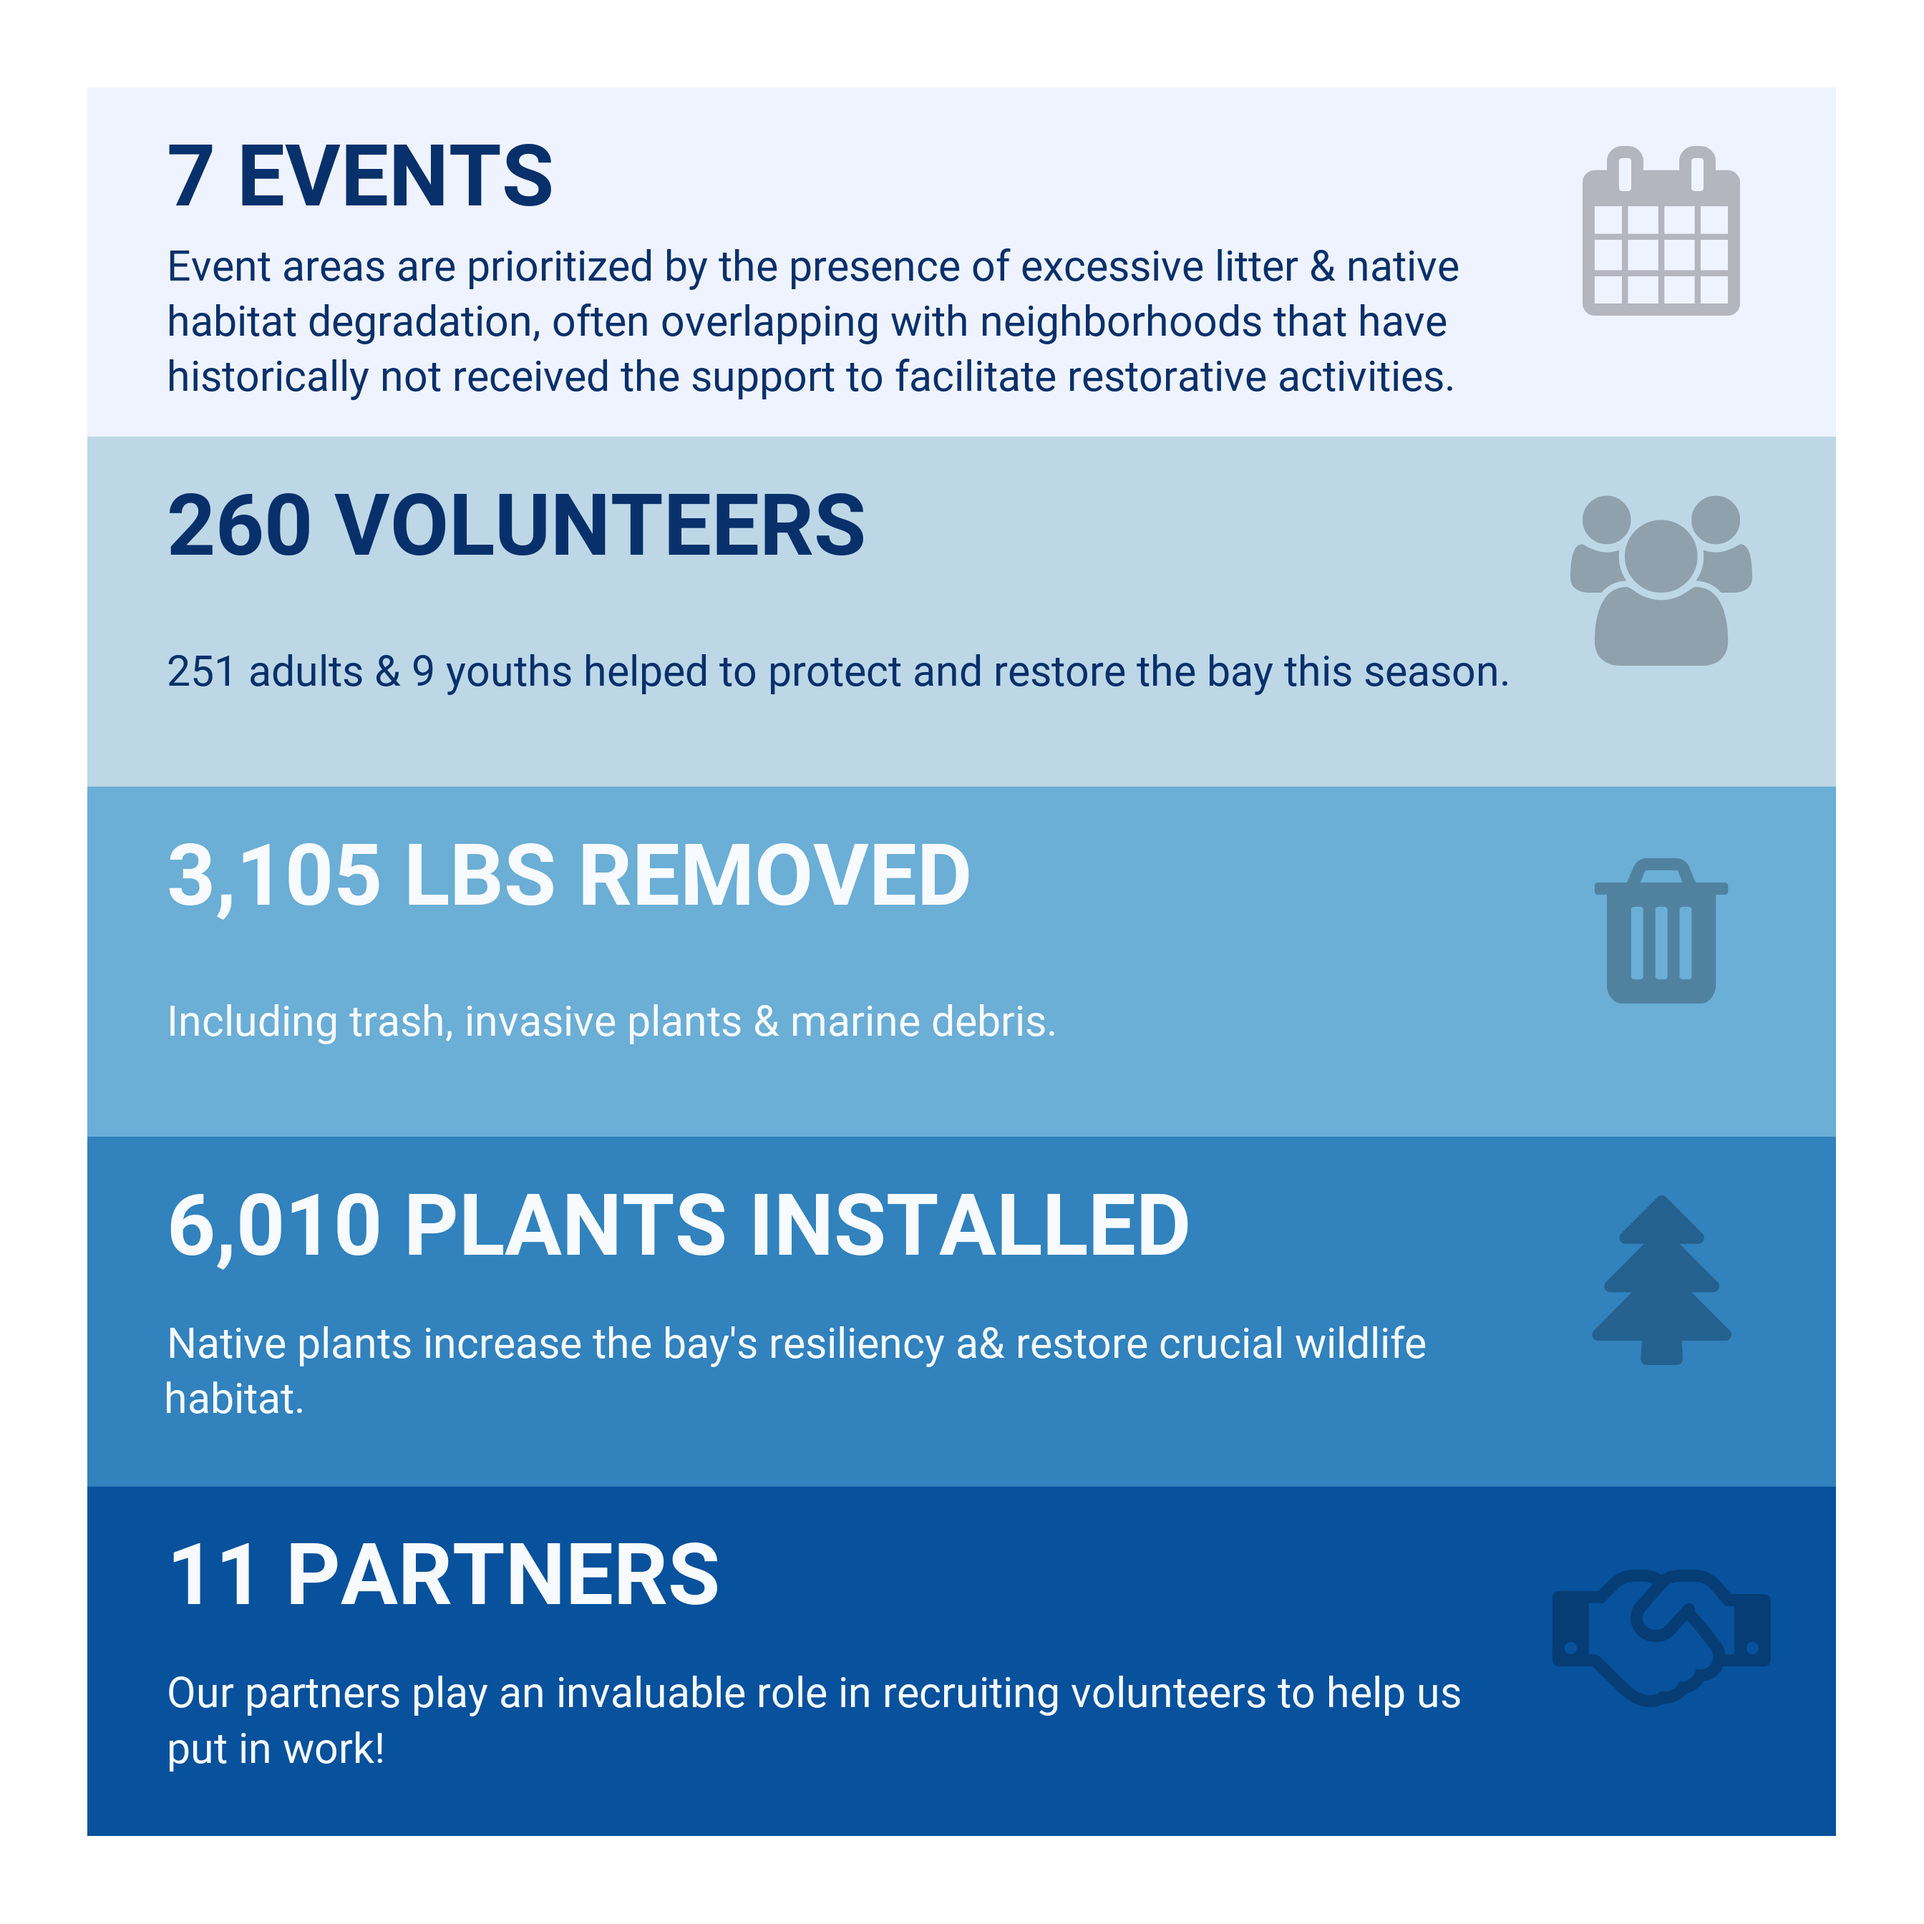
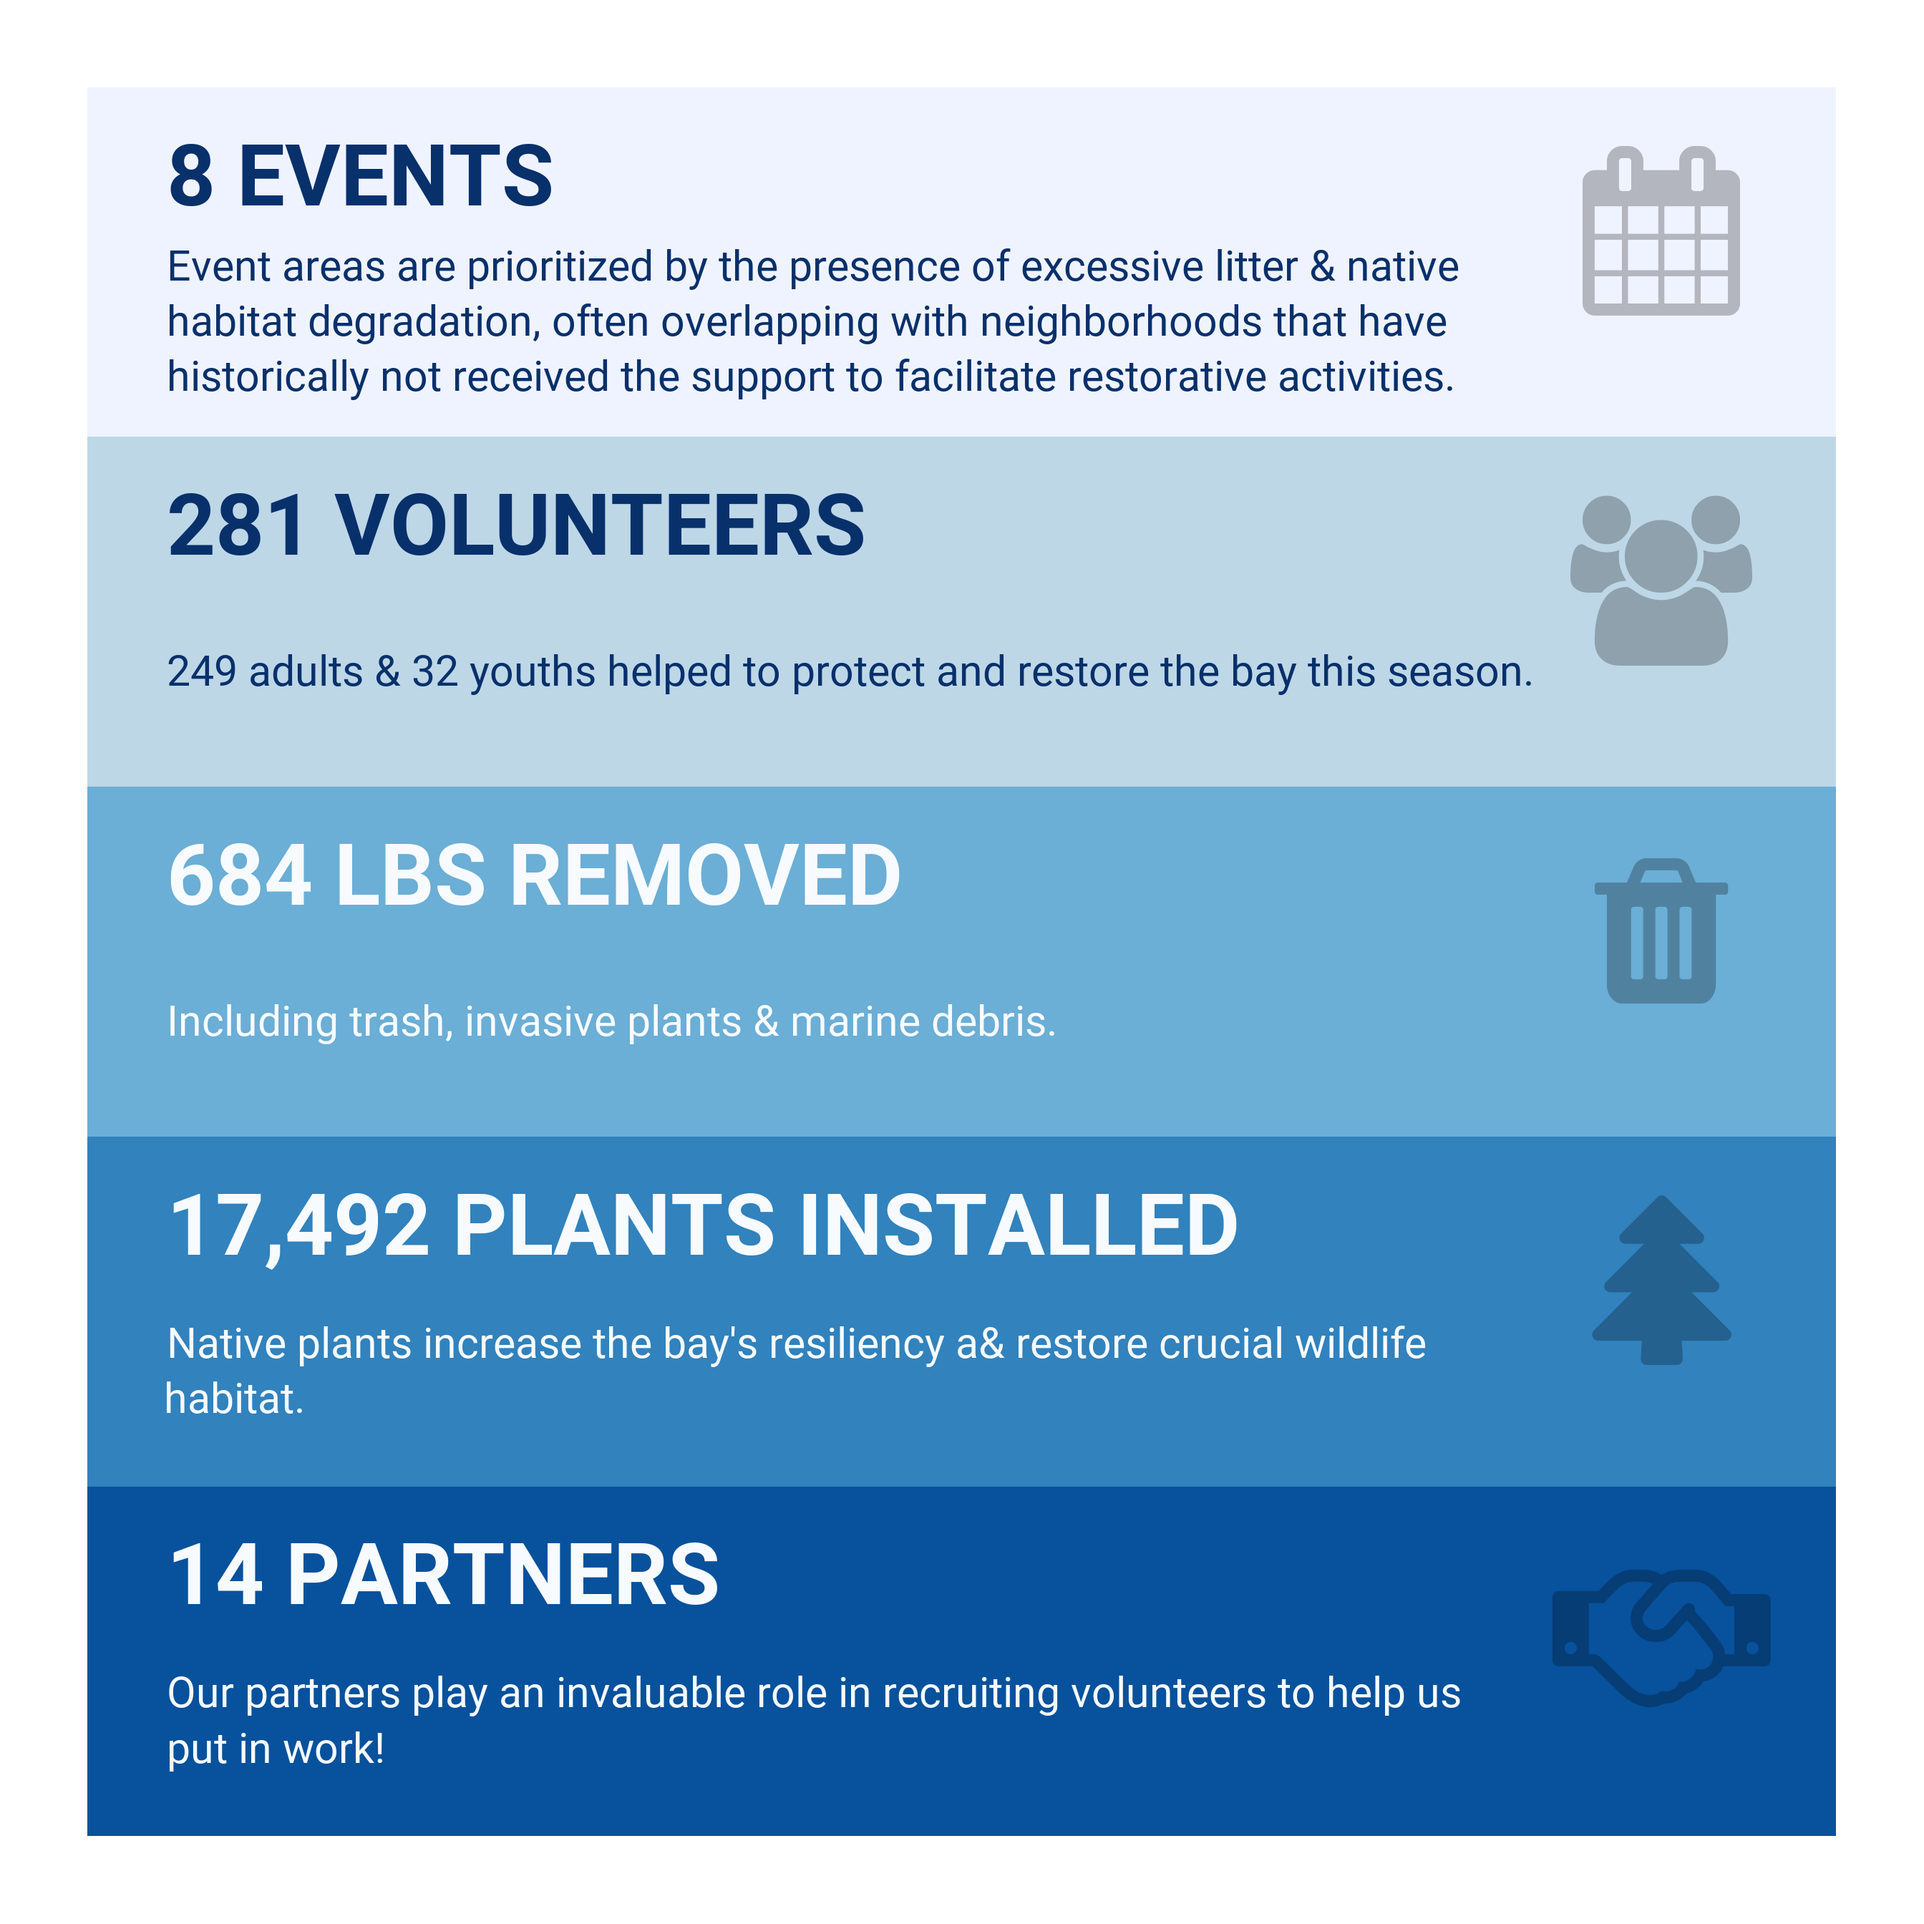
gad 2024 update

diff --git a/docs/give-a-day.html b/docs/give-a-day.html
@@ -13,7 +13,7 @@
 
 <title>give-a-day.knit</title>
 
-<script src="give-a-day_files/header-attrs-2.25/header-attrs.js"></script>
+<script src="give-a-day_files/header-attrs-2.29/header-attrs.js"></script>
 <script src="give-a-day_files/jquery-3.6.0/jquery-3.6.0.min.js"></script>
 <meta name="viewport" content="width=device-width, initial-scale=1" />
 <link href="give-a-day_files/bootstrap-3.3.5/css/bootstrap.min.css" rel="stylesheet" />
@@ -172,18 +172,18 @@ Give-a-Day for the Bay volunteer program where community members put in
 planting native vegetation to removing debris from mangrove islands,
 these events encourage the community to get out, give back, and enjoy
 the bay!</p>
-<p>Since 2019, there have been 41 Give-A-Day for the Bay volunteer
-workdays co-hosted with 64 bay-area partners. During this time,
+<p>Since 2019, there have been 49 Give-A-Day for the Bay volunteer
+workdays co-hosted with 78 bay-area partners. During this time,
 significant attention has been given to addressing excessive litter and
 native habitat degradation in regions of the watershed that have
 historically not received support for restoration activities. During
-these events, 1,976 volunteers removed 11 tons of debris and litter and
-planted 11,705 native plants. Volunteers have also participated in
+these events, 2,257 volunteers removed 11.3 tons of debris and litter
+and planted 29,197 native plants. Volunteers have also participated in
 citizen science projects that highlighted the importance of blue carbon
 habitats by using tea bags to measure soil decomposition rates and
 carbon storage capacities of wetlands.</p>
 <div id="year-in-review" class="section level2">
-<h2>2023 Year in Review</h2>
+<h2>2024 Year in Review</h2>
 <p><img src="give-a-day_files/figure-html/unnamed-chunk-1-1.png" width="80%" style="display: block; margin: auto;" /></p>
 <script type="text/javascript" src="js/iframeResizer.contentWindow.min.js"></script>
 </div>

diff --git a/docs/give-a-day_files/header-attrs-2.29/header-attrs.js b/docs/give-a-day_files/header-attrs-2.29/header-attrs.js
@@ -1,0 +1,12 @@
+// Pandoc 2.9 adds attributes on both header and div. We remove the former (to
+// be compatible with the behavior of Pandoc < 2.8).
+document.addEventListener('DOMContentLoaded', function(e) {
+  var hs = document.querySelectorAll("div.section[class*='level'] > :first-child");
+  var i, h, a;
+  for (i = 0; i < hs.length; i++) {
+    h = hs[i];
+    if (!/^h[1-6]$/i.test(h.tagName)) continue;  // it should be a header h1-h6
+    a = h.attributes;
+    while (a.length > 0) h.removeAttribute(a[0].name);
+  }
+});
